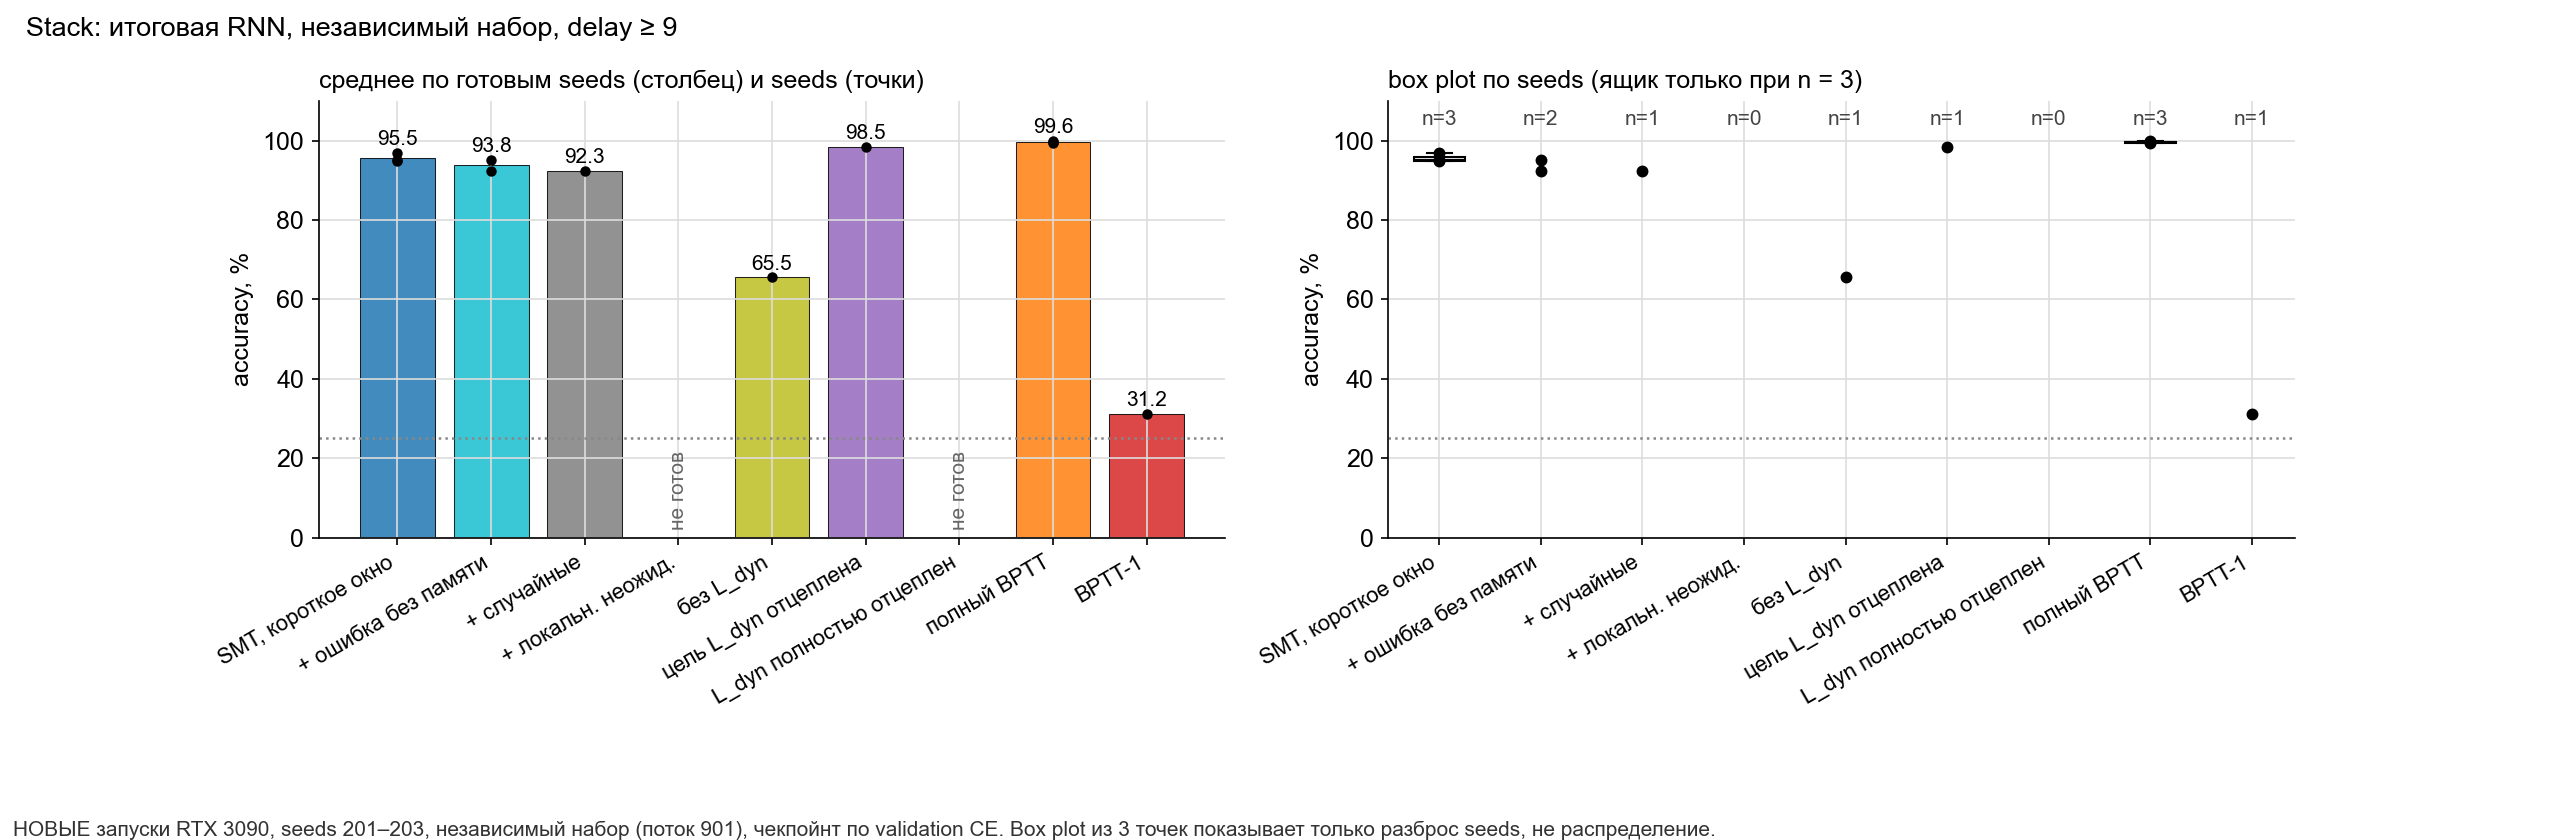
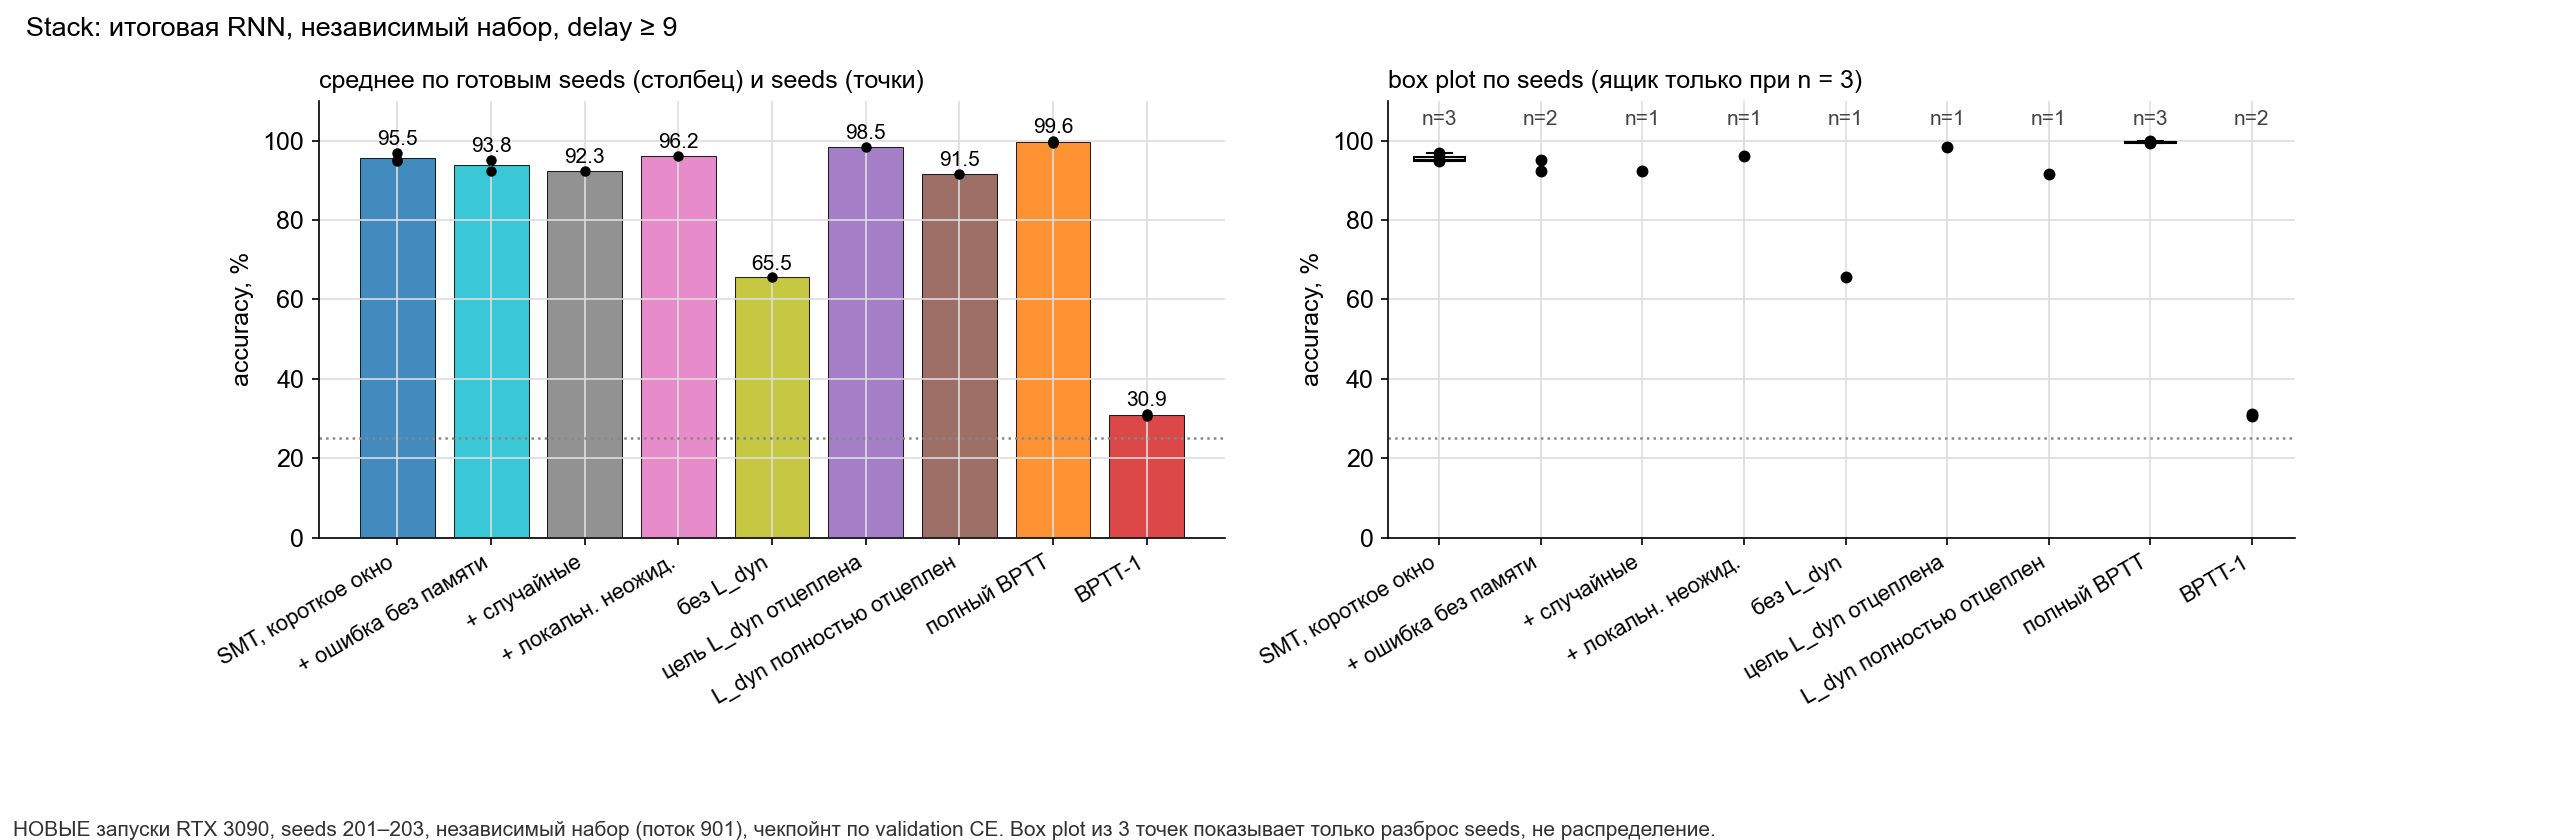
TensorBoard figures: gradient-norm and L_dyn diagnostics (far-target variants run 5-40x above the clip threshold)

Changed region(s): [[0.3408, 0.1857, 0.4027, 0.65], [0.2478, 0.1548, 0.2788, 0.65], [0.4337, 0.4643, 0.4647, 0.4952]]

diff --git a/make_tensorboard.py b/make_tensorboard.py
@@ -205,6 +205,28 @@ def make_figures(R):
     for a in axes: a.set_yscale("log")
     fig.text(0.005, 0.005, note.replace("200 шагов", "50 шагов (BPTT: 500)"), fontsize=10, color="#333333"); fig.subplots_adjust(bottom=0.2, wspace=0.25)
     fig.savefig(FIG / "L2_mqar_T16_losses.png"); figs.append(("L2_mqar_T16_losses", fig))
+    # diagnostics: gradient norm before clipping (clip = 1) and L_dyn around the MQAR teacher jump
+    fig, axes = plt.subplots(1, 2, figsize=(16, 5.2))
+    for name, s, lab, c in (("stack_smt_tf8", 201, "без дальних целей", COL[0]), ("stack_smt_tf8_random_far", 201, "+ случайные", COL[2]),
+                            ("stack_smt_tf8_surprise_far", 202, "+ локальная неожиданность (s202)", COL[3]),
+                            ("stack_smt_tf8_ctx_far", 202, "+ ошибка без памяти (s202)", COL[1])):
+        h = hist(R, name, s, "smt")
+        if h is not None:
+            axes[0].plot(h.step, h.grad_norm.rolling(200, min_periods=1).median(), color=c, label=lab, lw=2)
+    axes[0].axhline(1.0, color="black", ls="--", lw=1.2); axes[0].text(200, 1.15, "порог обрезки clip = 1", fontsize=12)
+    axes[0].set_yscale("log"); axes[0].set_xlabel("шаг SMT"); axes[0].set_ylabel("норма градиента до обрезки")
+    axes[0].set_title("(а) Stack, SMT: норма градиента (медиана 200 шагов)", loc="left", fontsize=12); axes[0].legend(frameon=False, fontsize=11)
+    for s, ls in ((201, "-"), (202, "--"), (203, ":")):
+        h = hist(R, "mqar_T16N2_smt", s, "smt")
+        if h is None: continue
+        axes[1].plot(h.step, h.train_dynamics.rolling(50, min_periods=1).median(), color=COL[1], ls=ls, lw=2, label=f"L_dyn, s{s}")
+        axes[1].plot(h.step, h.train_decoder.rolling(50, min_periods=1).median(), color=COL[0], ls=ls, lw=1.5, label=f"L_near, s{s}")
+    axes[1].set_yscale("log"); axes[1].set_xlabel("шаг SMT"); axes[1].legend(frameon=False, fontsize=10, ncol=2)
+    axes[1].set_title("(б) MQAR T=16, SMT: L_dyn растёт после скачка teacher", loc="left", fontsize=12)
+    fig.text(0.005, 0.01, "НОВЫЕ запуски RTX 3090, обучающие батчи, скользящая медиана. grad_norm записан ДО обрезки "
+                          "(clip_grad_norm_ возвращает исходную норму).", fontsize=10, color="#333333")
+    fig.subplots_adjust(bottom=0.17, wspace=0.22)
+    fig.savefig(FIG / "G1_grad_norm_and_ldyn.png"); figs.append(("G1_grad_norm_and_ldyn", fig))
     # bars + box plots over seeds
     SHORT = {"stack_smt_tf8": "SMT, короткое окно", "stack_smt_tf8_ctx_far": "+ ошибка без памяти", "stack_smt_tf8_random_far": "+ случайные",
              "stack_smt_tf8_surprise_far": "+ локальн. неожид.", "stack_smt_tf8_no_dyn": "без L_dyn", "stack_smt_tf8_target_detached": "цель L_dyn отцеплена",
